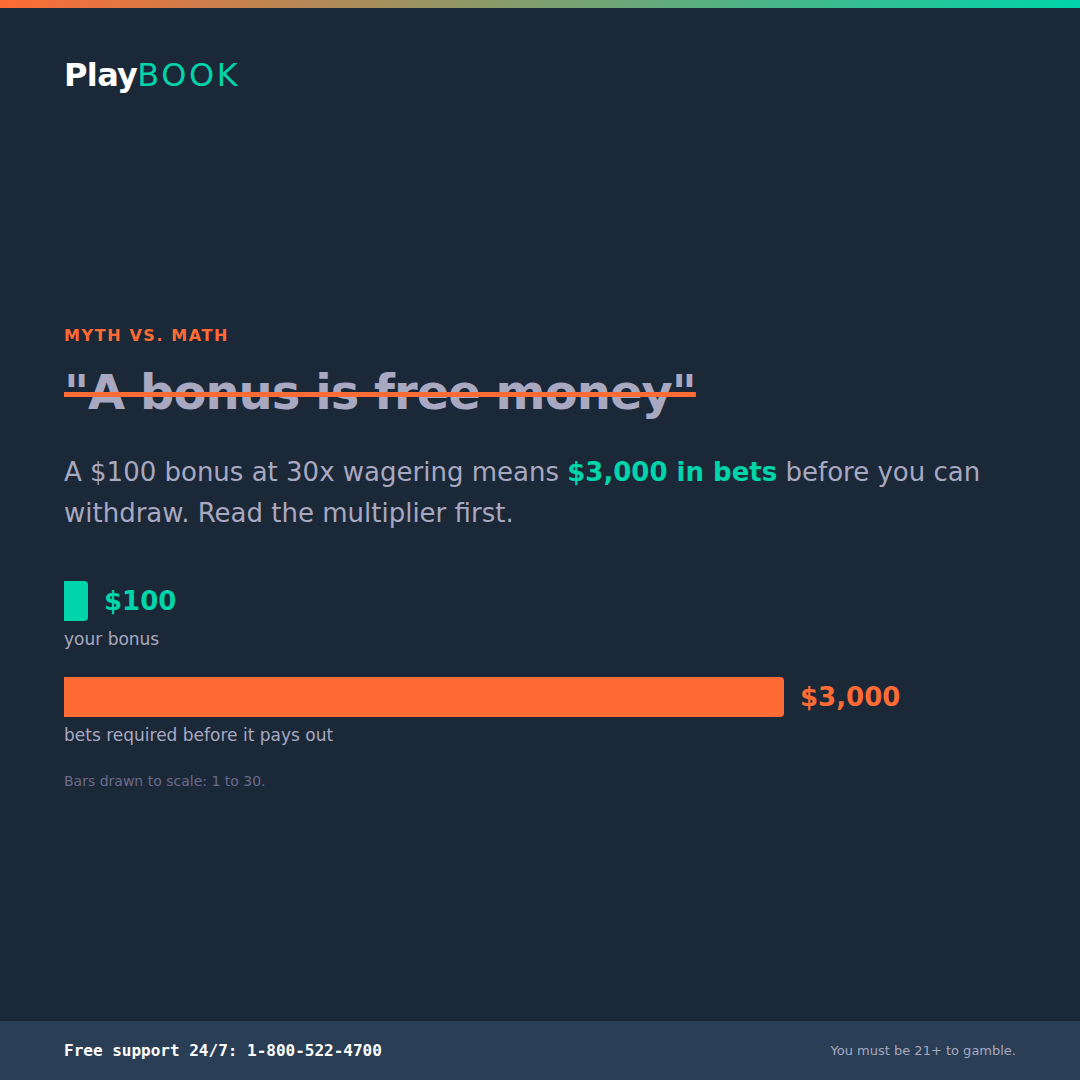
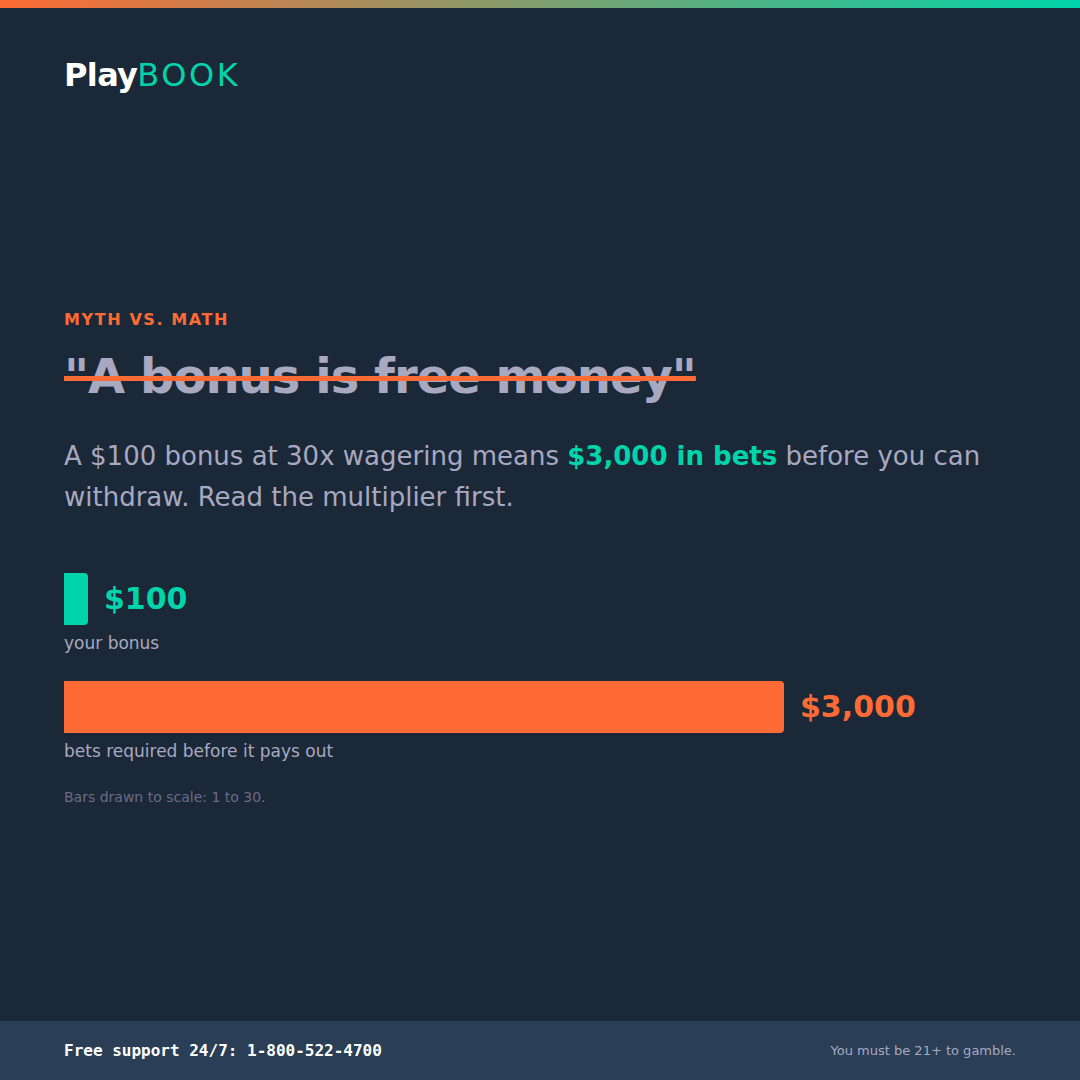
Fix visual defects found in card render review
- card-16a: center text was overflowing the donut hole onto the ring;
  reduced number/label size, thinned the ring, enlarged the donut
- card-17a: cut bars now center in the tiles' free space instead of
  pinning to the bottom with a hollow middle; squares grid compacted
- card-16b: heavier bars and larger value labels so the chart carries
  its share of the composition

https://claude.ai/code/session_0185SkMKwokbUUM3N32zgs77

Changed region(s): [[0.0611, 0.275, 0.9167, 0.4889], [0.0611, 0.5194, 0.8556, 0.7639], [0.0611, 0.5194, 0.0917, 0.55]]

diff --git a/collateral/render/card-16a-online-rigged.html b/collateral/render/card-16a-online-rigged.html
@@ -35,7 +35,7 @@
   .legend-swatch.teal { background: var(--pb-color-secondary); }
   .legend-swatch.orange { background: var(--pb-color-accent); }
   .legend-text { font-family: var(--pb-font-heading); font-size: calc(18px * var(--pb-template-text-scale, 1)); font-weight: 600; color: var(--pb-color-neutral-300); }
-  .donut-wrap { width: 320px; flex-shrink: 0; }
+  .donut-wrap { width: 360px; flex-shrink: 0; }
   .donut-wrap svg { width: 100%; height: auto; display: block; }
   .donut-wrap svg text { font-family: var(--pb-font-heading), 'Inter', sans-serif; }
   .card-footer { background: var(--pb-color-primary-light); padding: 20px 64px; display: flex; align-items: center; justify-content: space-between; position: relative; z-index: 1; }
@@ -62,13 +62,13 @@
       </div>
       <div class="donut-wrap">
         <svg viewBox="0 0 240 240" fill="none">
-          <circle cx="120" cy="120" r="88" stroke="rgba(255,255,255,0.06)" stroke-width="30"/>
+          <circle cx="120" cy="120" r="88" stroke="rgba(255,255,255,0.06)" stroke-width="26"/>
           <g transform="rotate(-90 120 120)">
-            <circle cx="120" cy="120" r="88" stroke="var(--pb-color-secondary)" stroke-width="30" stroke-dasharray="524 29" stroke-linecap="butt"/>
-            <circle cx="120" cy="120" r="88" stroke="var(--pb-color-accent)" stroke-width="30" stroke-dasharray="23 530" stroke-dashoffset="-526" stroke-linecap="butt"/>
+            <circle cx="120" cy="120" r="88" stroke="var(--pb-color-secondary)" stroke-width="26" stroke-dasharray="524 29" stroke-linecap="butt"/>
+            <circle cx="120" cy="120" r="88" stroke="var(--pb-color-accent)" stroke-width="26" stroke-dasharray="23 530" stroke-dashoffset="-526" stroke-linecap="butt"/>
           </g>
-          <text x="120" y="118" text-anchor="middle" font-family="Inter" font-weight="800" font-size="42" fill="var(--pb-color-white)">94&#8211;97%</text>
-          <text x="120" y="146" text-anchor="middle" font-family="Inter" font-weight="600" font-size="14" fill="var(--pb-color-neutral-300)">typical online payback</text>
+          <text x="120" y="116" text-anchor="middle" font-family="Inter" font-weight="800" font-size="34" fill="var(--pb-color-white)">94&#8211;97%</text>
+          <text x="120" y="144" text-anchor="middle" font-family="Inter" font-weight="600" font-size="13" fill="var(--pb-color-neutral-300)">typical payback</text>
         </svg>
       </div>
     </div>

diff --git a/collateral/render/card-16b-bonus-free-money.html b/collateral/render/card-16b-bonus-free-money.html
@@ -27,12 +27,12 @@
   .myth-statement .strike { text-decoration: line-through; text-decoration-color: var(--pb-color-accent); text-decoration-thickness: 5px; color: var(--pb-color-neutral-300); }
   .fact-statement { font-family: var(--pb-font-body); font-size: calc(26px * var(--pb-template-text-scale, 1)); line-height: 1.55; color: var(--pb-color-neutral-300); }
   .fact-statement strong { color: var(--pb-color-secondary); font-weight: 600; }
-  .bar-viz { margin-top: 48px; }
+  .bar-viz { margin-top: 56px; }
   .bar-row { display: flex; align-items: center; gap: 16px; }
-  .bar { height: 40px; border-radius: 0 4px 4px 0; }
+  .bar { height: 52px; border-radius: 0 4px 4px 0; }
   .bar.teal { background: var(--pb-color-secondary); width: 24px; }
   .bar.orange { background: var(--pb-color-accent); width: 720px; }
-  .bar-value { font-family: var(--pb-font-heading); font-weight: 700; font-size: calc(26px * var(--pb-template-text-scale, 1)); }
+  .bar-value { font-family: var(--pb-font-heading); font-weight: 700; font-size: calc(30px * var(--pb-template-text-scale, 1)); }
   .bar-value.teal-text { color: var(--pb-color-secondary); }
   .bar-value.orange-text { color: var(--pb-color-accent); }
   .bar-caption { font-family: var(--pb-font-body); font-size: calc(17px * var(--pb-template-text-scale, 1)); color: var(--pb-color-neutral-300); margin: 8px 0 28px; }

diff --git a/collateral/render/card-17a-big-game.html b/collateral/render/card-17a-big-game.html
@@ -31,8 +31,8 @@
   .cut-track { margin-top: auto; height: 14px; border-radius: 4px; background: rgba(255,255,255,0.08); overflow: hidden; }
   .vig-card > .vig-note { margin-bottom: 16px; }
   .cut-fill { height: 100%; background: var(--pb-color-accent); border-radius: 0 4px 4px 0; }
-  .cut-caption { font-family: var(--pb-font-body); font-size: calc(13px * var(--pb-template-text-scale, 1)); color: var(--pb-color-neutral-500); margin-top: 8px; }
-  .squares-grid { margin: 16px auto 0; display: grid; grid-template-columns: repeat(10, 14px); grid-auto-rows: 14px; gap: 3px; }
+  .cut-caption { font-family: var(--pb-font-body); font-size: calc(13px * var(--pb-template-text-scale, 1)); color: var(--pb-color-neutral-500); margin-top: 8px; margin-bottom: auto; }
+  .squares-grid { margin: auto auto 0; display: grid; grid-template-columns: repeat(10, 11px); grid-auto-rows: 11px; gap: 2px; }
   .squares-grid span { background: rgba(255,255,255,0.10); border-radius: 2px; }
   .squares-grid span.win { background: var(--pb-color-secondary); }
   .card-footer { background: var(--pb-color-primary-light); padding: 20px 64px; display: flex; align-items: center; justify-content: space-between; position: relative; z-index: 1; }